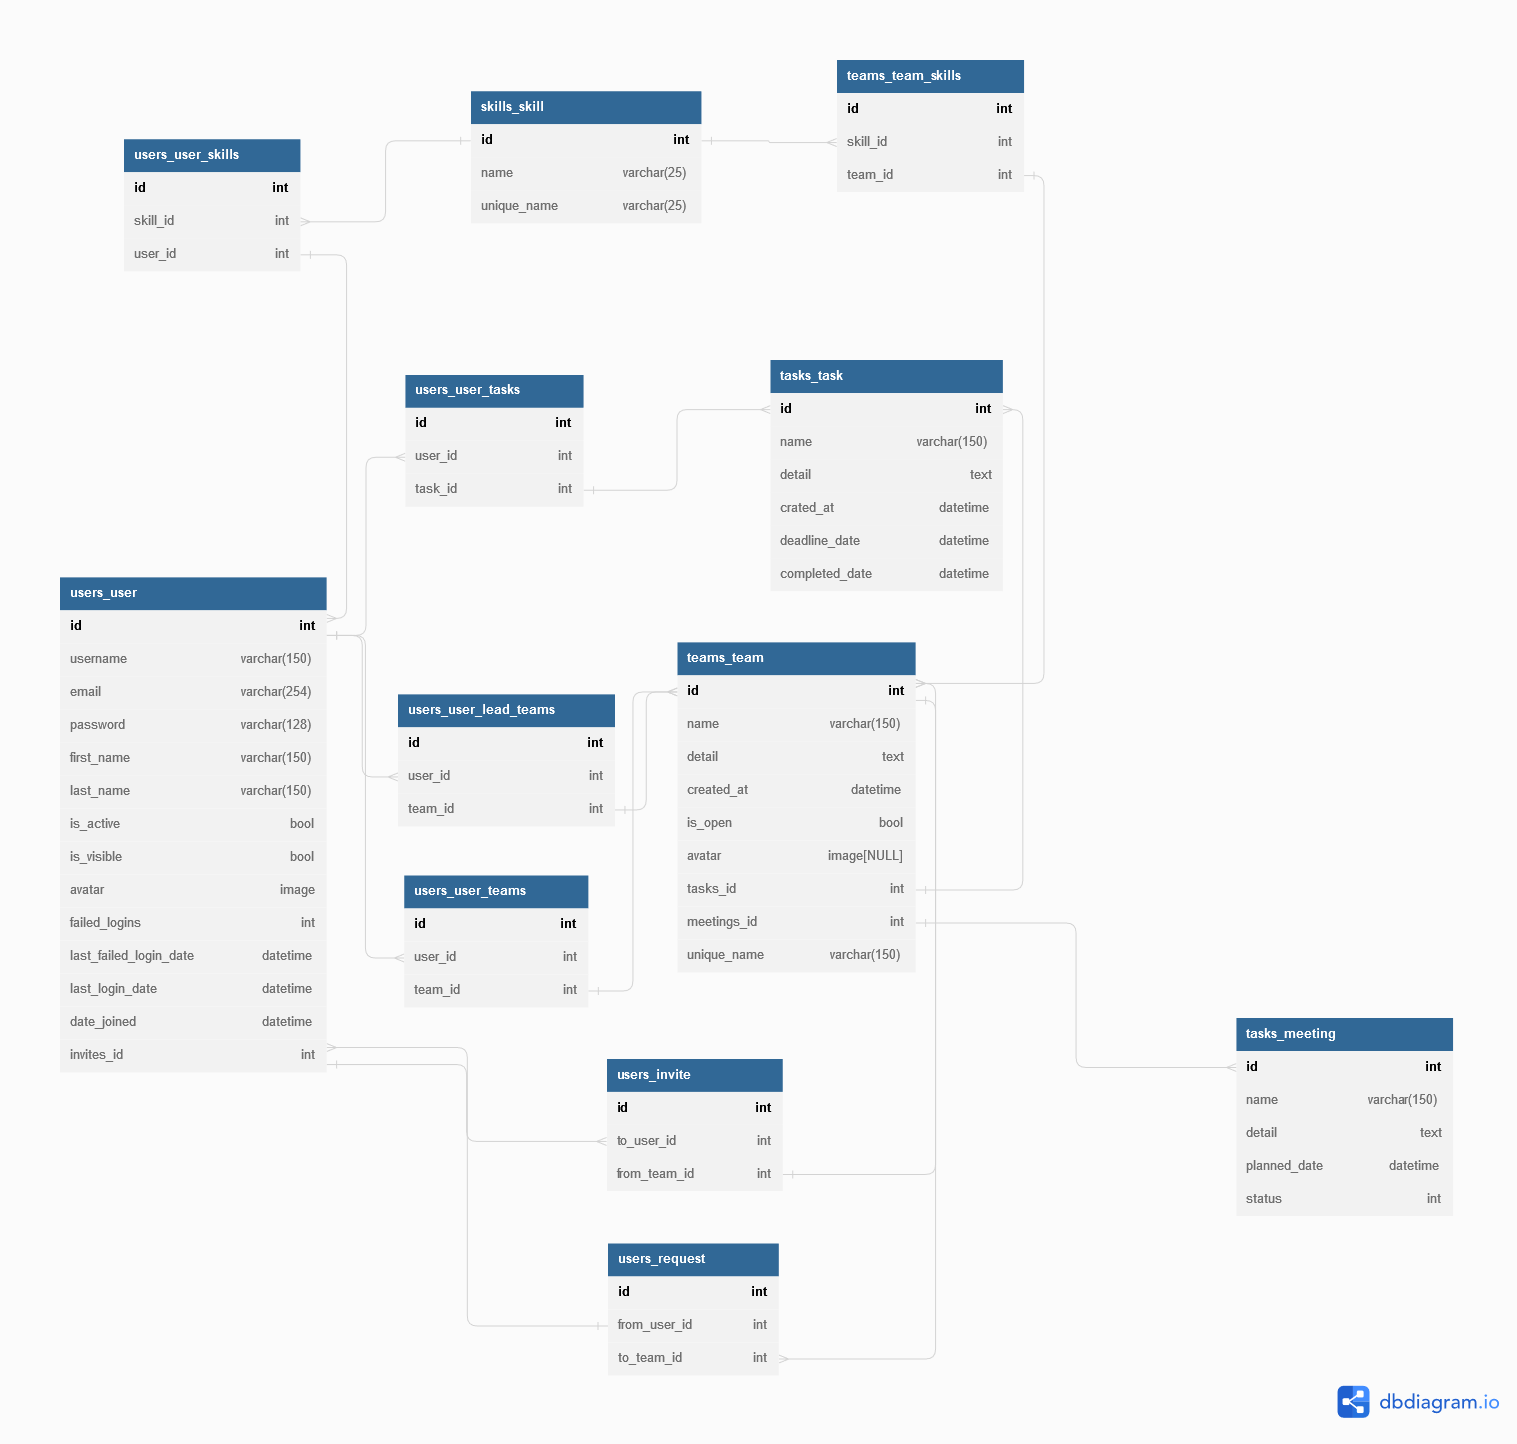
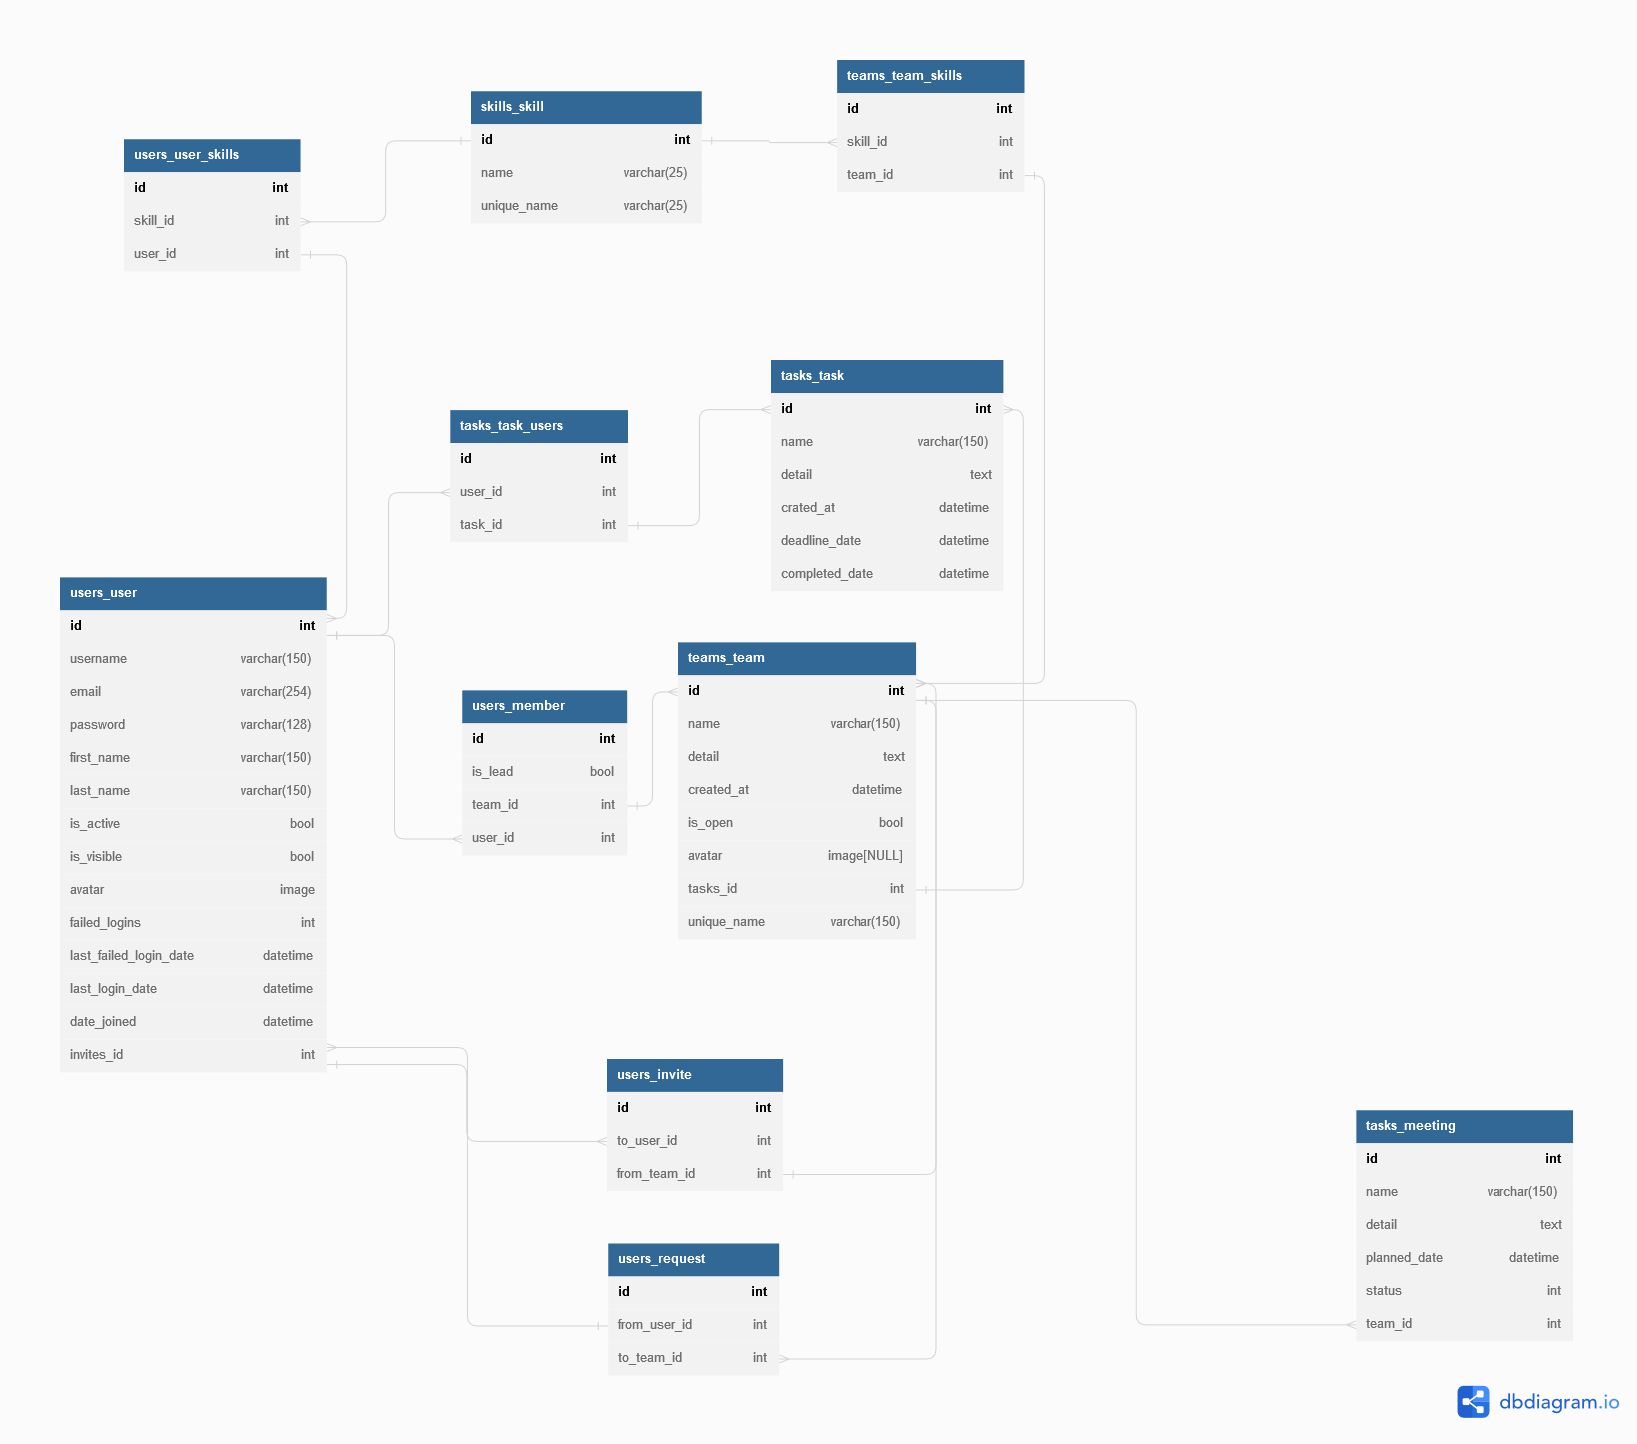
Update erd; fix requests bugs

diff --git a/templates/teams/detail.html b/templates/teams/detail.html
@@ -5,7 +5,7 @@
   <title>{% translate "О команде" %}</title>
 {% endblock %}
 {% block content %}
-  {% if team.is_open or request.user in team.members.all %}
+  {% if team %}
     <div class="flex justify-center items-center">
       <div class="flex items-center max-w-full py-5 px-7">
         <img class="h-28 w-24 rounded mr-5" src="{{ team.get_avatar_300x300.url }}" alt="">
@@ -30,38 +30,32 @@
         <div class="pt-12 sm:border-l sm:pt-2 sm:pl-5 border-neutral-500 h-auto">
           <div class="mt-5">
             <div>
-            {% for member in team.members.all %}
-              {% if forloop.first %}
-                <p>{% translate "Участники" %}: </p>
-              {% endif %}
-              {% if member.is_lead %}
-                <a href="{% url 'users:user_detail' member.user.id %}">{{ member.user.username }}({% translate "лид" %})</a>
-              {% else %}
-                <a href="{% url 'users:user_detail' member.user.id %}">{{ member.user.username }}</a>
-              {% endif %}
-            {% endfor %}
+              <p>{% translate "Участники" %}: </p>
+              {% for team_member in team.members.all %}
+                <a href="{% url 'users:user_detail' team_member.user.pk %}">{{ team_member.user.username }} {% if team_member.is_lead %} ({% translate 'лид команды' %}) {% endif %}</a><br>
+              {% endfor %}
             </div>
-            {% if is_lead and not team.is_open %}
+            {% if member and member.is_lead and not team.is_open %}
               <a
                 type="button"
                 class="mt-3 inline-block rounded px-3 py-1 text-m font-small leading-normal text-white border border-neutral-500 hover:border-transparent shadow-[0_4px_9px_-4px_#3b71ca] transition duration-150 ease-in-out hover:bg-primary-600 hover:shadow-[0_8px_9px_-4px_rgba(59,113,202,0.3),0_4px_18px_0_rgba(59,113,202,0.2)] focus:bg-primary-600 focus:shadow-[0_8px_9px_-4px_rgba(59,113,202,0.3),0_4px_18px_0_rgba(59,113,202,0.2)] focus:outline-none focus:ring-0 active:bg-primary-700 active:shadow-[0_8px_9px_-4px_rgba(59,113,202,0.3),0_4px_18px_0_rgba(59,113,202,0.2)] dark:shadow-[0_4px_9px_-4px_rgba(59,113,202,0.5)] dark:hover:shadow-[0_8px_9px_-4px_rgba(59,113,202,0.2),0_4px_18px_0_rgba(59,113,202,0.1)] dark:focus:shadow-[0_8px_9px_-4px_rgba(59,113,202,0.2),0_4px_18px_0_rgba(59,113,202,0.1)] dark:active:shadow-[0_8px_9px_-4px_rgba(59,113,202,0.2),0_4px_18px_0_rgba(59,113,202,0.1)]">
                 {% translate "Пригласить пользователей" %}
               </a>
-            {% elif is_lead and team.is_open %}
+            {% elif member and member.is_lead and team.is_open %}
               <a
                 type="button"
                 class="mt-3 inline-block rounded px-7 py-1 text-m font-small leading-normal text-white border border-neutral-500 hover:border-transparent shadow-[0_4px_9px_-4px_#3b71ca] transition duration-150 ease-in-out hover:bg-primary-600 hover:shadow-[0_8px_9px_-4px_rgba(59,113,202,0.3),0_4px_18px_0_rgba(59,113,202,0.2)] focus:bg-primary-600 focus:shadow-[0_8px_9px_-4px_rgba(59,113,202,0.3),0_4px_18px_0_rgba(59,113,202,0.2)] focus:outline-none focus:ring-0 active:bg-primary-700 active:shadow-[0_8px_9px_-4px_rgba(59,113,202,0.3),0_4px_18px_0_rgba(59,113,202,0.2)] dark:shadow-[0_4px_9px_-4px_rgba(59,113,202,0.5)] dark:hover:shadow-[0_8px_9px_-4px_rgba(59,113,202,0.2),0_4px_18px_0_rgba(59,113,202,0.1)] dark:focus:shadow-[0_8px_9px_-4px_rgba(59,113,202,0.2),0_4px_18px_0_rgba(59,113,202,0.1)] dark:active:shadow-[0_8px_9px_-4px_rgba(59,113,202,0.2),0_4px_18px_0_rgba(59,113,202,0.1)]"
                 href="{% url 'teams:requests' team.pk %}">
                 {% translate "Посмотреть запросы на вступление" %}
               </a>
-            {% elif not is_lead and team.is_open and request.user.is_authenticated %}
+            {% elif not member and team.is_open and request.user.is_authenticated %}
               <a
                 href="{% url 'users:send_request' %}"
                 class="text-center mt-3 inline-block rounded px-3 py-1 text-m font-small leading-normal text-white border border-neutral-500 hover:border-transparent shadow-[0_4px_9px_-4px_#3b71ca] transition duration-150 ease-in-out hover:bg-primary-600 hover:shadow-[0_8px_9px_-4px_rgba(59,113,202,0.3),0_4px_18px_0_rgba(59,113,202,0.2)] focus:bg-primary-600 focus:shadow-[0_8px_9px_-4px_rgba(59,113,202,0.3),0_4px_18px_0_rgba(59,113,202,0.2)] focus:outline-none focus:ring-0 active:bg-primary-700 active:shadow-[0_8px_9px_-4px_rgba(59,113,202,0.3),0_4px_18px_0_rgba(59,113,202,0.2)] dark:shadow-[0_4px_9px_-4px_rgba(59,113,202,0.5)] dark:hover:shadow-[0_8px_9px_-4px_rgba(59,113,202,0.2),0_4px_18px_0_rgba(59,113,202,0.1)] dark:focus:shadow-[0_8px_9px_-4px_rgba(59,113,202,0.2),0_4px_18px_0_rgba(59,113,202,0.1)] dark:active:shadow-[0_8px_9px_-4px_rgba(59,113,202,0.2),0_4px_18px_0_rgba(59,113,202,0.1)]">
                 {% translate "Запрос на вступление" %}
               </a>
             {% endif %}
-            {% if is_lead %}
+            {% if member.is_lead %}
               <a
                 href="{% url 'teams:edit' team.pk %}"
                 class="text-center mt-3 inline-block rounded px-3 py-1 text-m font-small leading-normal text-white border border-neutral-500 hover:border-transparent shadow-[0_4px_9px_-4px_#3b71ca] transition duration-150 ease-in-out hover:bg-primary-600 hover:shadow-[0_8px_9px_-4px_rgba(59,113,202,0.3),0_4px_18px_0_rgba(59,113,202,0.2)] focus:bg-primary-600 focus:shadow-[0_8px_9px_-4px_rgba(59,113,202,0.3),0_4px_18px_0_rgba(59,113,202,0.2)] focus:outline-none focus:ring-0 active:bg-primary-700 active:shadow-[0_8px_9px_-4px_rgba(59,113,202,0.3),0_4px_18px_0_rgba(59,113,202,0.2)] dark:shadow-[0_4px_9px_-4px_rgba(59,113,202,0.5)] dark:hover:shadow-[0_8px_9px_-4px_rgba(59,113,202,0.2),0_4px_18px_0_rgba(59,113,202,0.1)] dark:focus:shadow-[0_8px_9px_-4px_rgba(59,113,202,0.2),0_4px_18px_0_rgba(59,113,202,0.1)] dark:active:shadow-[0_8px_9px_-4px_rgba(59,113,202,0.2),0_4px_18px_0_rgba(59,113,202,0.1)]">

diff --git a/templates/teams/all_requests.html b/templates/teams/all_requests.html
@@ -35,6 +35,8 @@
             </div>
           </div>
         </div>
+      {% empty %}
+      <p class="text-white text-center text-2xl break-normal py-3">{% translate "Пока что запросов нет" %}</p>
       {% endfor %}
     </div>
   </div>

diff --git a/teams/views.py b/teams/views.py
@@ -1,6 +1,7 @@
 import django.shortcuts
 import django.urls
 import django.views.generic
+import django.db.models
 from django.contrib.auth.decorators import login_required
 from django.shortcuts import get_object_or_404, redirect
 from django.utils.decorators import method_decorator
@@ -47,7 +48,7 @@ class TeamEditView(django.views.generic.UpdateView):
         self.object = self.get_object()
         context = super().get_context_data(**kwargs)
         context['form'] = self.form_class(instance=self.object)
-        context['meeting_form'] = tasks.forms.MeetingCreationForm()
+        context['meeting_form'] = self.meeting_form_class()
         return context
 
     def post(self, request, *args, **kwargs):
@@ -60,9 +61,9 @@ class TeamEditView(django.views.generic.UpdateView):
         if form.is_valid():
             form.save()
         if meeting_form.is_valid():
-            meeting = meeting_form.save()
-            self.object.meetings.add(meeting)
-            self.object.save()
+            meeting = meeting_form.save(commit=False)
+            meeting.team = self.object
+            meeting.save()
         return self.render_to_response(context)
 
 
@@ -72,28 +73,40 @@ class TeamDetailView(django.views.generic.DetailView):
     context_object_name = 'team'
     http_method_names = ['get', 'head']
 
-    def get_context_data(self, **kwargs):
+    def get_queryset(self):
+        queryset = super().get_queryset()
+        result = queryset.filter(is_open=True)
         if self.request.user.is_authenticated:
-            is_request_user_lead = (
-                teams.models.Team.objects.all()
-                .exclude(members__is_lead=False)
-                .filter(
-                    members__id__in=self.request.user.teams.all(),
-                    id=self.get_object().id,
+            result = queryset.filter(members__user=self.request.user)
+        return result.prefetch_related(
+            django.db.models.Prefetch(
+                teams.models.Team.members.rel.related_name,
+                queryset=users.models.Member.objects.all(),
+            ),
+            django.db.models.Prefetch(
+                '__'.join(
+                    [
+                        teams.models.Team.members.rel.related_name,
+                        users.models.Member.user.field.name,
+                    ]
                 )
-                .exists()
-            )
-            is_request_user_member = (
-                teams.models.Team.objects.closed()
-                .filter(members__id__in=self.request.user.teams.all())
-                .exists()
-            )
-            return super().get_context_data(
-                is_lead=is_request_user_lead,
-                is_member=is_request_user_member,
-                **kwargs,
-            )
-        return super().get_context_data(**kwargs)
+            ),
+        )
+
+    def get_object(self, queryset=None):
+        try:
+            obj = super().get_object(queryset)
+        except django.http.Http404:
+            obj = self.queryset.none()
+        return obj
+
+    def get(self, request, *args, **kwargs):
+        self.object = self.get_object()
+        member = None
+        if self.object and request.user.is_authenticated:
+            member = self.object.members.filter(user=request.user).first()
+        context = self.get_context_data(object=self.object, member=member)
+        return self.render_to_response(context)
 
 
 class TeamListView(django.views.generic.ListView):
@@ -121,8 +134,7 @@ class TeamRequestsView(django.views.generic.TemplateView):
         )
         is_request_user_lead = (
             teams.models.Team.objects.all()
-            .exclude(members__is_lead=False)
-            .filter(members__id__in=self.request.user.teams.all())
+            .filter(members__user=self.request.user, members__is_lead=True)
             .exists()
         )
         if not team or not is_request_user_lead:
@@ -157,14 +169,12 @@ class RequestAcceptView(django.views.generic.View):
     http_method_names = ['get', 'head']
 
     def get(self, *args, **kwargs):
-        print(self.request.user)
         team = get_object_or_404(
             teams.models.Team.objects.opened(), pk=kwargs['team_id']
         )
         is_request_user_lead = (
-            teams.models.Team.objects.opened()
-            .exclude(members__is_lead=False)
-            .filter(members__id__in=self.request.user.teams.all())
+            teams.models.Team.objects.all()
+            .filter(members__user=self.request.user, members__is_lead=True)
             .exists()
         )
         if is_request_user_lead:
@@ -192,9 +202,8 @@ class RequestRejectView(django.views.generic.View):
             teams.models.Team.objects.opened(), pk=kwargs['team_id']
         )
         is_request_user_lead = (
-            teams.models.Team.objects.opened()
-            .exclude(members__is_lead=False)
-            .filter(members__id__in=self.request.user.teams.all())
+            teams.models.Team.objects.all()
+            .filter(members__user=self.request.user, members__is_lead=True)
             .exists()
         )
         if is_request_user_lead:
